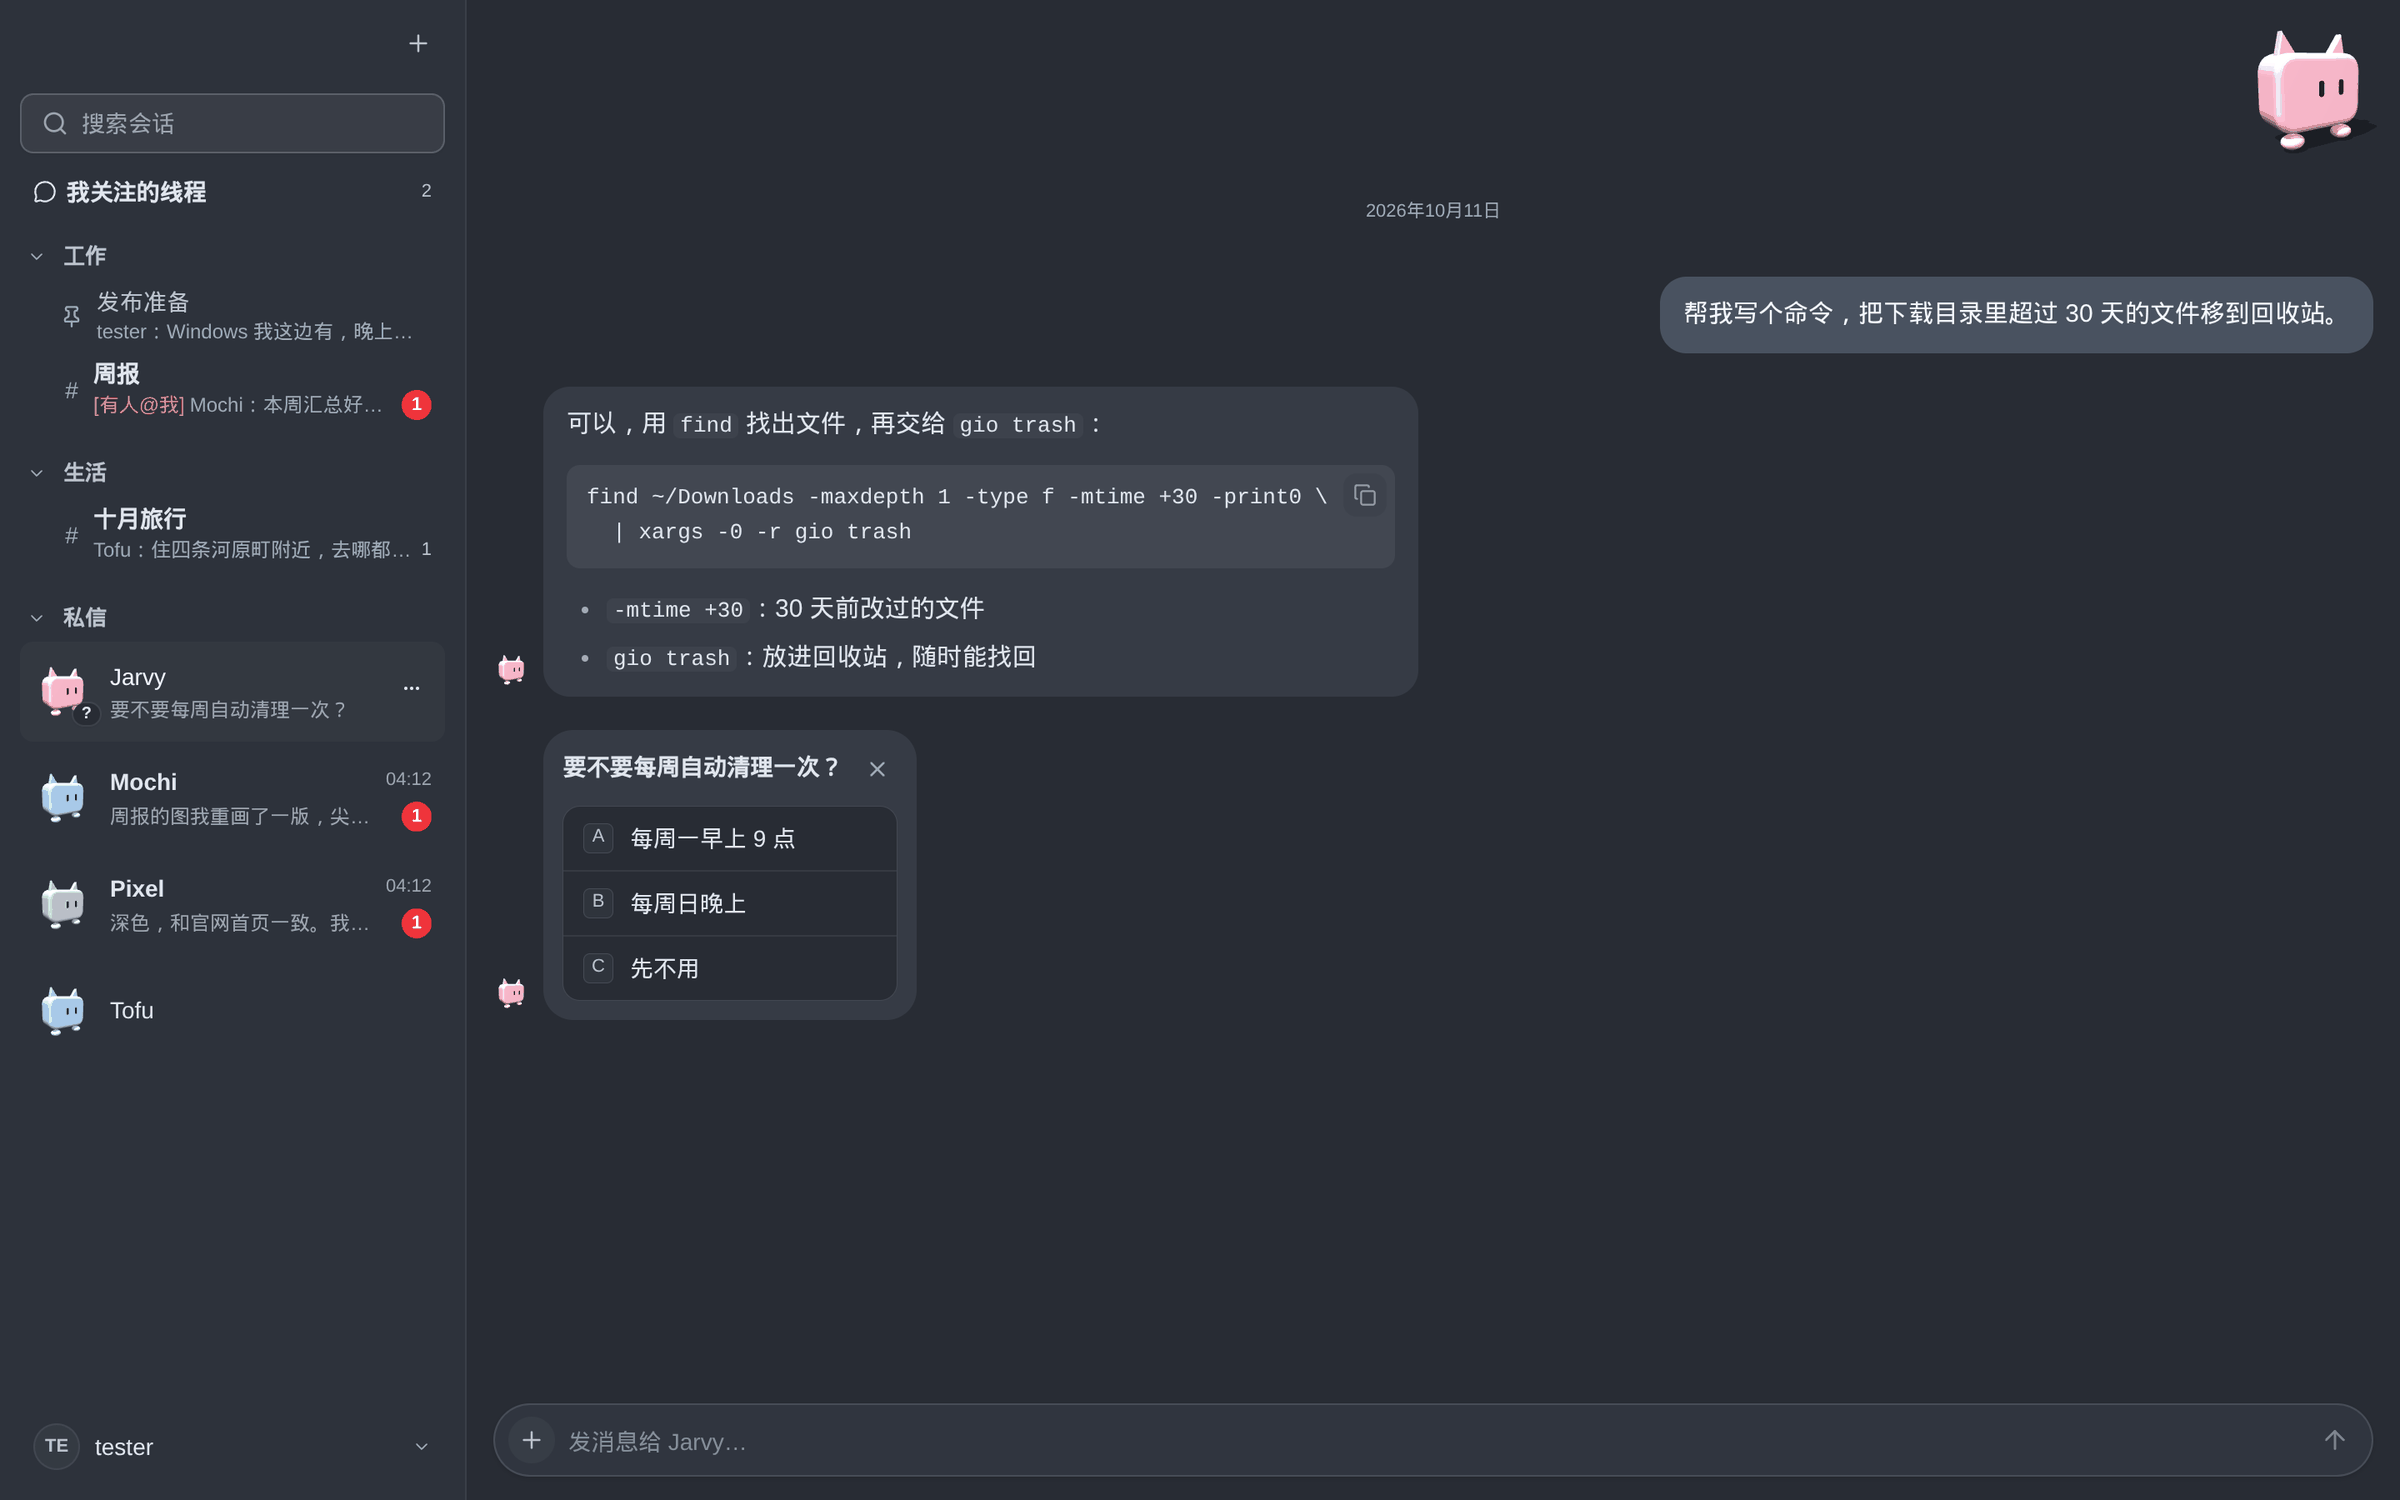
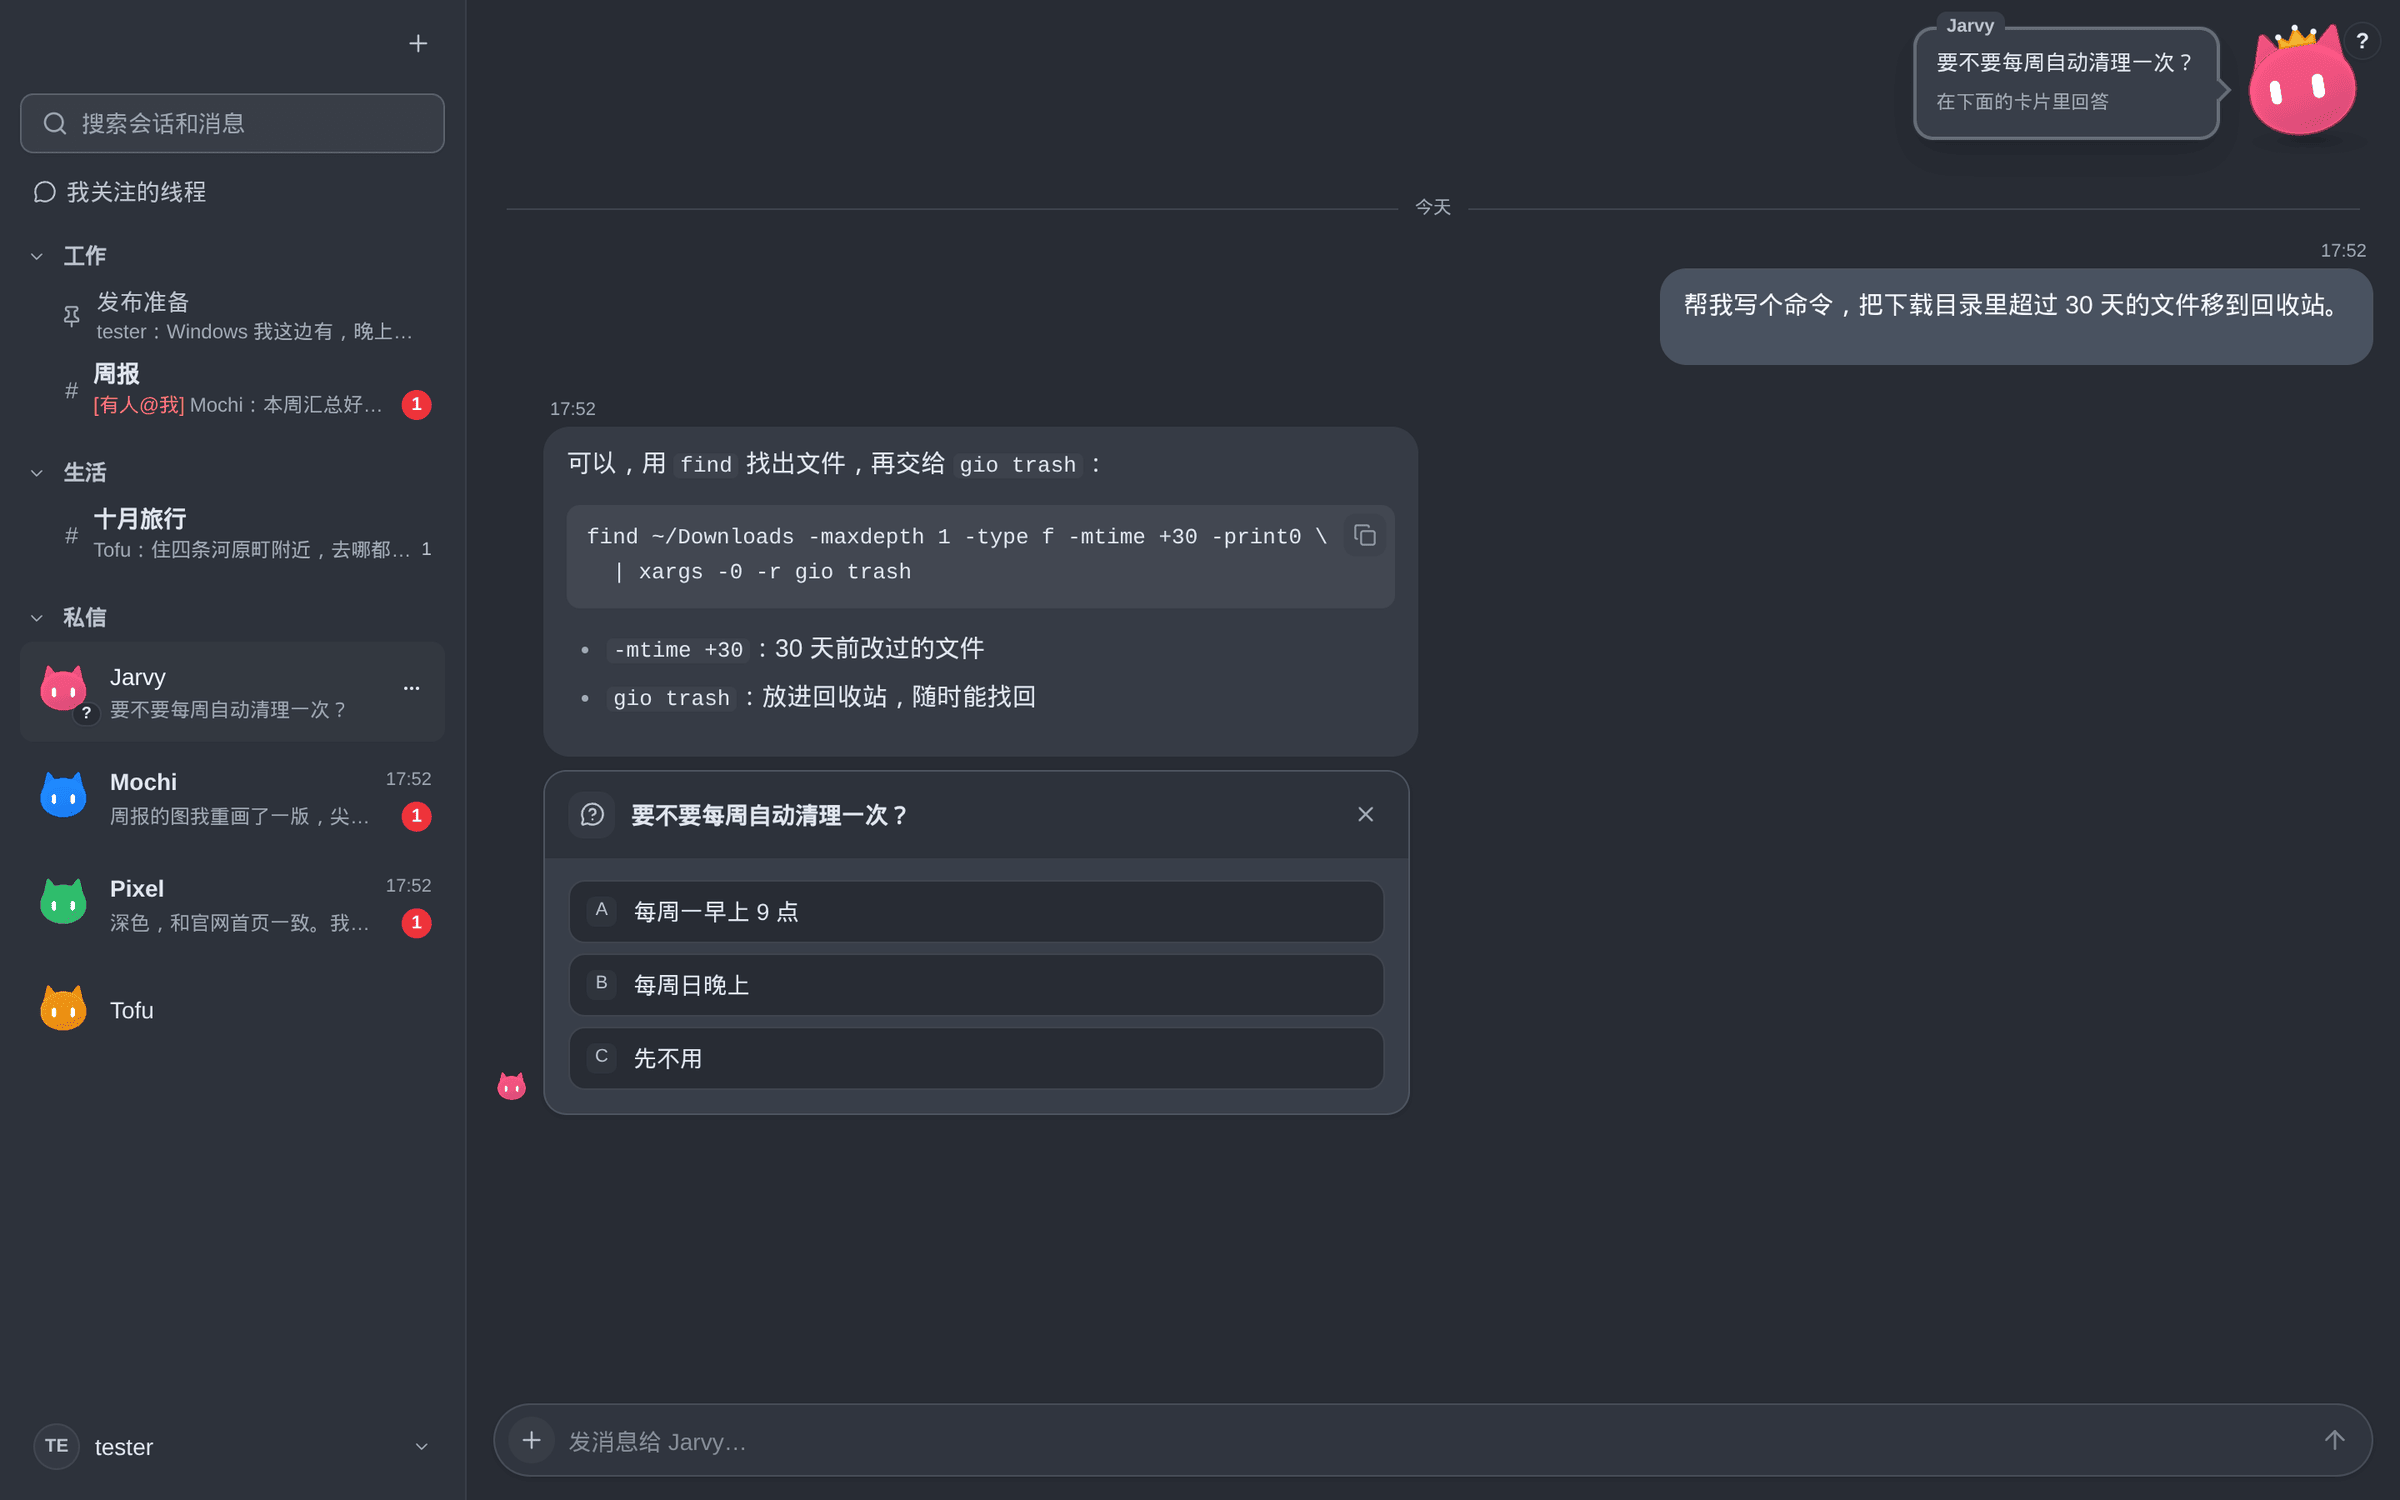
docs: README shows the new Bot figure, port forwarding and sandbox limits
The four product screenshots are taken again with the shader figure.
The sandbox paragraph says how a Bot's web app reaches the owner and
that its memory and CPU can be capped; Security says sandboxes can't
reach each other and who gets through a forwarded port.

diff --git a/README.md b/README.md
@@ -32,9 +32,9 @@ The interface comes in English and Chinese, following your browser's language; s
 
 **One context per Bot.** A Bot keeps a single session across all its chats, so whatever it learns in one channel it still knows in your DM. Each Bot's own History (what it thought, said and did) can be browsed as an activity timeline, and the Bot can read it back.
 
-**Watch it work.** In a DM, the Bot's cat acts out its turn as it happens: it thinks, reads, types and turns to you, and a dialogue beside it shows what it is thinking, muttering and sending, and each tool it runs. Click the dialogue to see every step.
+**Watch it work.** In a DM, the Bot's cat acts out its turn as it happens: it thinks, reads, works and turns to you, and a dialogue beside it shows what it is thinking, muttering and sending, and each tool it runs. Click the dialogue to see every step.
 
-**Each Bot in its own sandbox.** With Docker installed, a Bot can work in a Linux container only it uses, with Node, Python, git, build tools and Playwright with its browsers, and it can install whatever else it needs. Its workspace is its home there and outlives a reset. Other machines, your computer among them, are added in Settings › Environments and reached over SSH; you choose in Bot info which Bots may switch to each.
+**Each Bot in its own sandbox.** With Docker installed, a Bot can work in a Linux container only it uses, with Node, Python, git, build tools and Playwright with its browsers, and it can install whatever else it needs. Its workspace is its home there and outlives a reset. When it runs a web app there, it publishes the port and sends you a link: Jarvy forwards it to you, signed in, and to your Bots' sandboxes, and to no one else. You can cap each sandbox's memory and CPU in Bot info. Other machines, your computer among them, are added in Settings › Environments and reached over SSH; you choose in Bot info which Bots may switch to each.
 
 **An agent Bot that runs Jarvy for you.** Jarvy, the first Bot, wears a crown. Tell it what you want to get done and it builds the team: it creates Bots, writes their personas and picks their models. Later it starts and stops them, checks their usage and clears things away. Anything it deletes waits for your confirmation on a card.
 
@@ -104,6 +104,7 @@ Jarvy is not an internet service.
 - It listens on `127.0.0.1` by default. With `--host 0.0.0.0` (or any address other devices can reach) it serves HTTPS with a certificate it makes itself, and sends plain HTTP from other machines to HTTPS. Install that certificate once on each device (Settings → Network), or accept the browser's warning once. Plain HTTP from other machines can be allowed there; the page then warns that passwords, API keys and conversations cross the network unencrypted.
 - Model API keys, secrets (Settings → Secrets) and the certificate keys are encrypted with a master key kept outside the data directory, in `~/.config/jarvy/` (mode `0600`). Back that file up together with the data directory: without it they can't be decrypted. Bots that work on your computer run as your user and could read it; sandboxed Bots can't. The data directory is created with mode `0700` and the database with `0600`.
 - A Bot works in its own sandbox, a Docker container that sees only its workspace and runs with your user and group ids, and on the machines you let it use, where it runs `bash` as the user it logs in as and reaches everything that user can. Being able to use Docker is equivalent to root on this machine.
+- Sandboxes can't reach each other. A port a Bot publishes gets a Jarvy port of its own (Settings → Network, 12600–12699 by default) that only your signed-in browser and this Jarvy's sandboxes get through; Jarvy's session cookies never reach the Bot's app.
 
 ## License
 

diff --git a/docs/decisions.md b/docs/decisions.md
@@ -586,6 +586,7 @@ A sandbox is a container with nothing set but its shared memory: it takes what i
 - **Not yet**: a VM sandbox's memory and CPUs are fixed when it starts; they come with that kind of sandbox.
 
 Why: the owner should be able to keep one Bot from taking the machine from the rest, without anything changing for those who don't.
+
 ## A76 The Bot figure is one shader
 
 The block cat (A33) was a three.js scene — body, paws, a page held while reading, a 3D crown — photographed for the small avatars. At 22–36 px its shading, paws and crown ran together into a smudge, it did not look like the product icon, and three.js was about 750 kB of the page's scripts for one figure.
